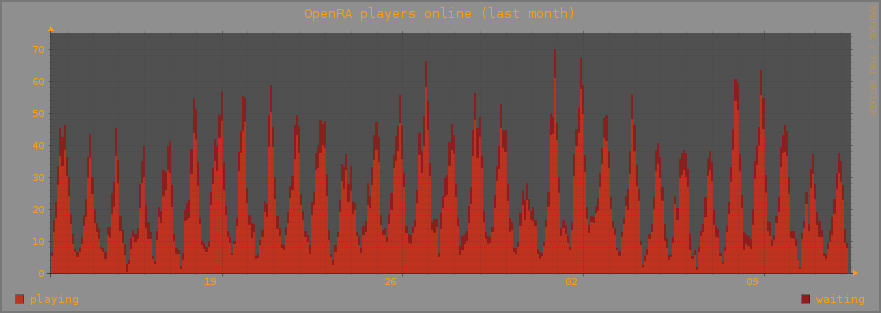
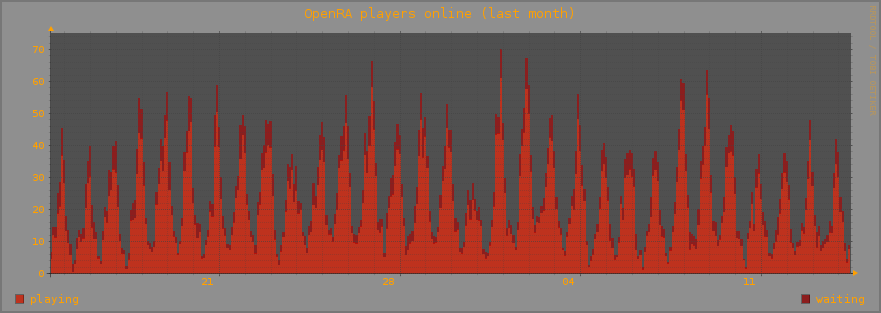
update db

diff --git a/log/redraw.ts b/log/redraw.ts
@@ -1,1 +1,1 @@
-2016-01-13 07:53:06
+2016-01-15 10:21:06
